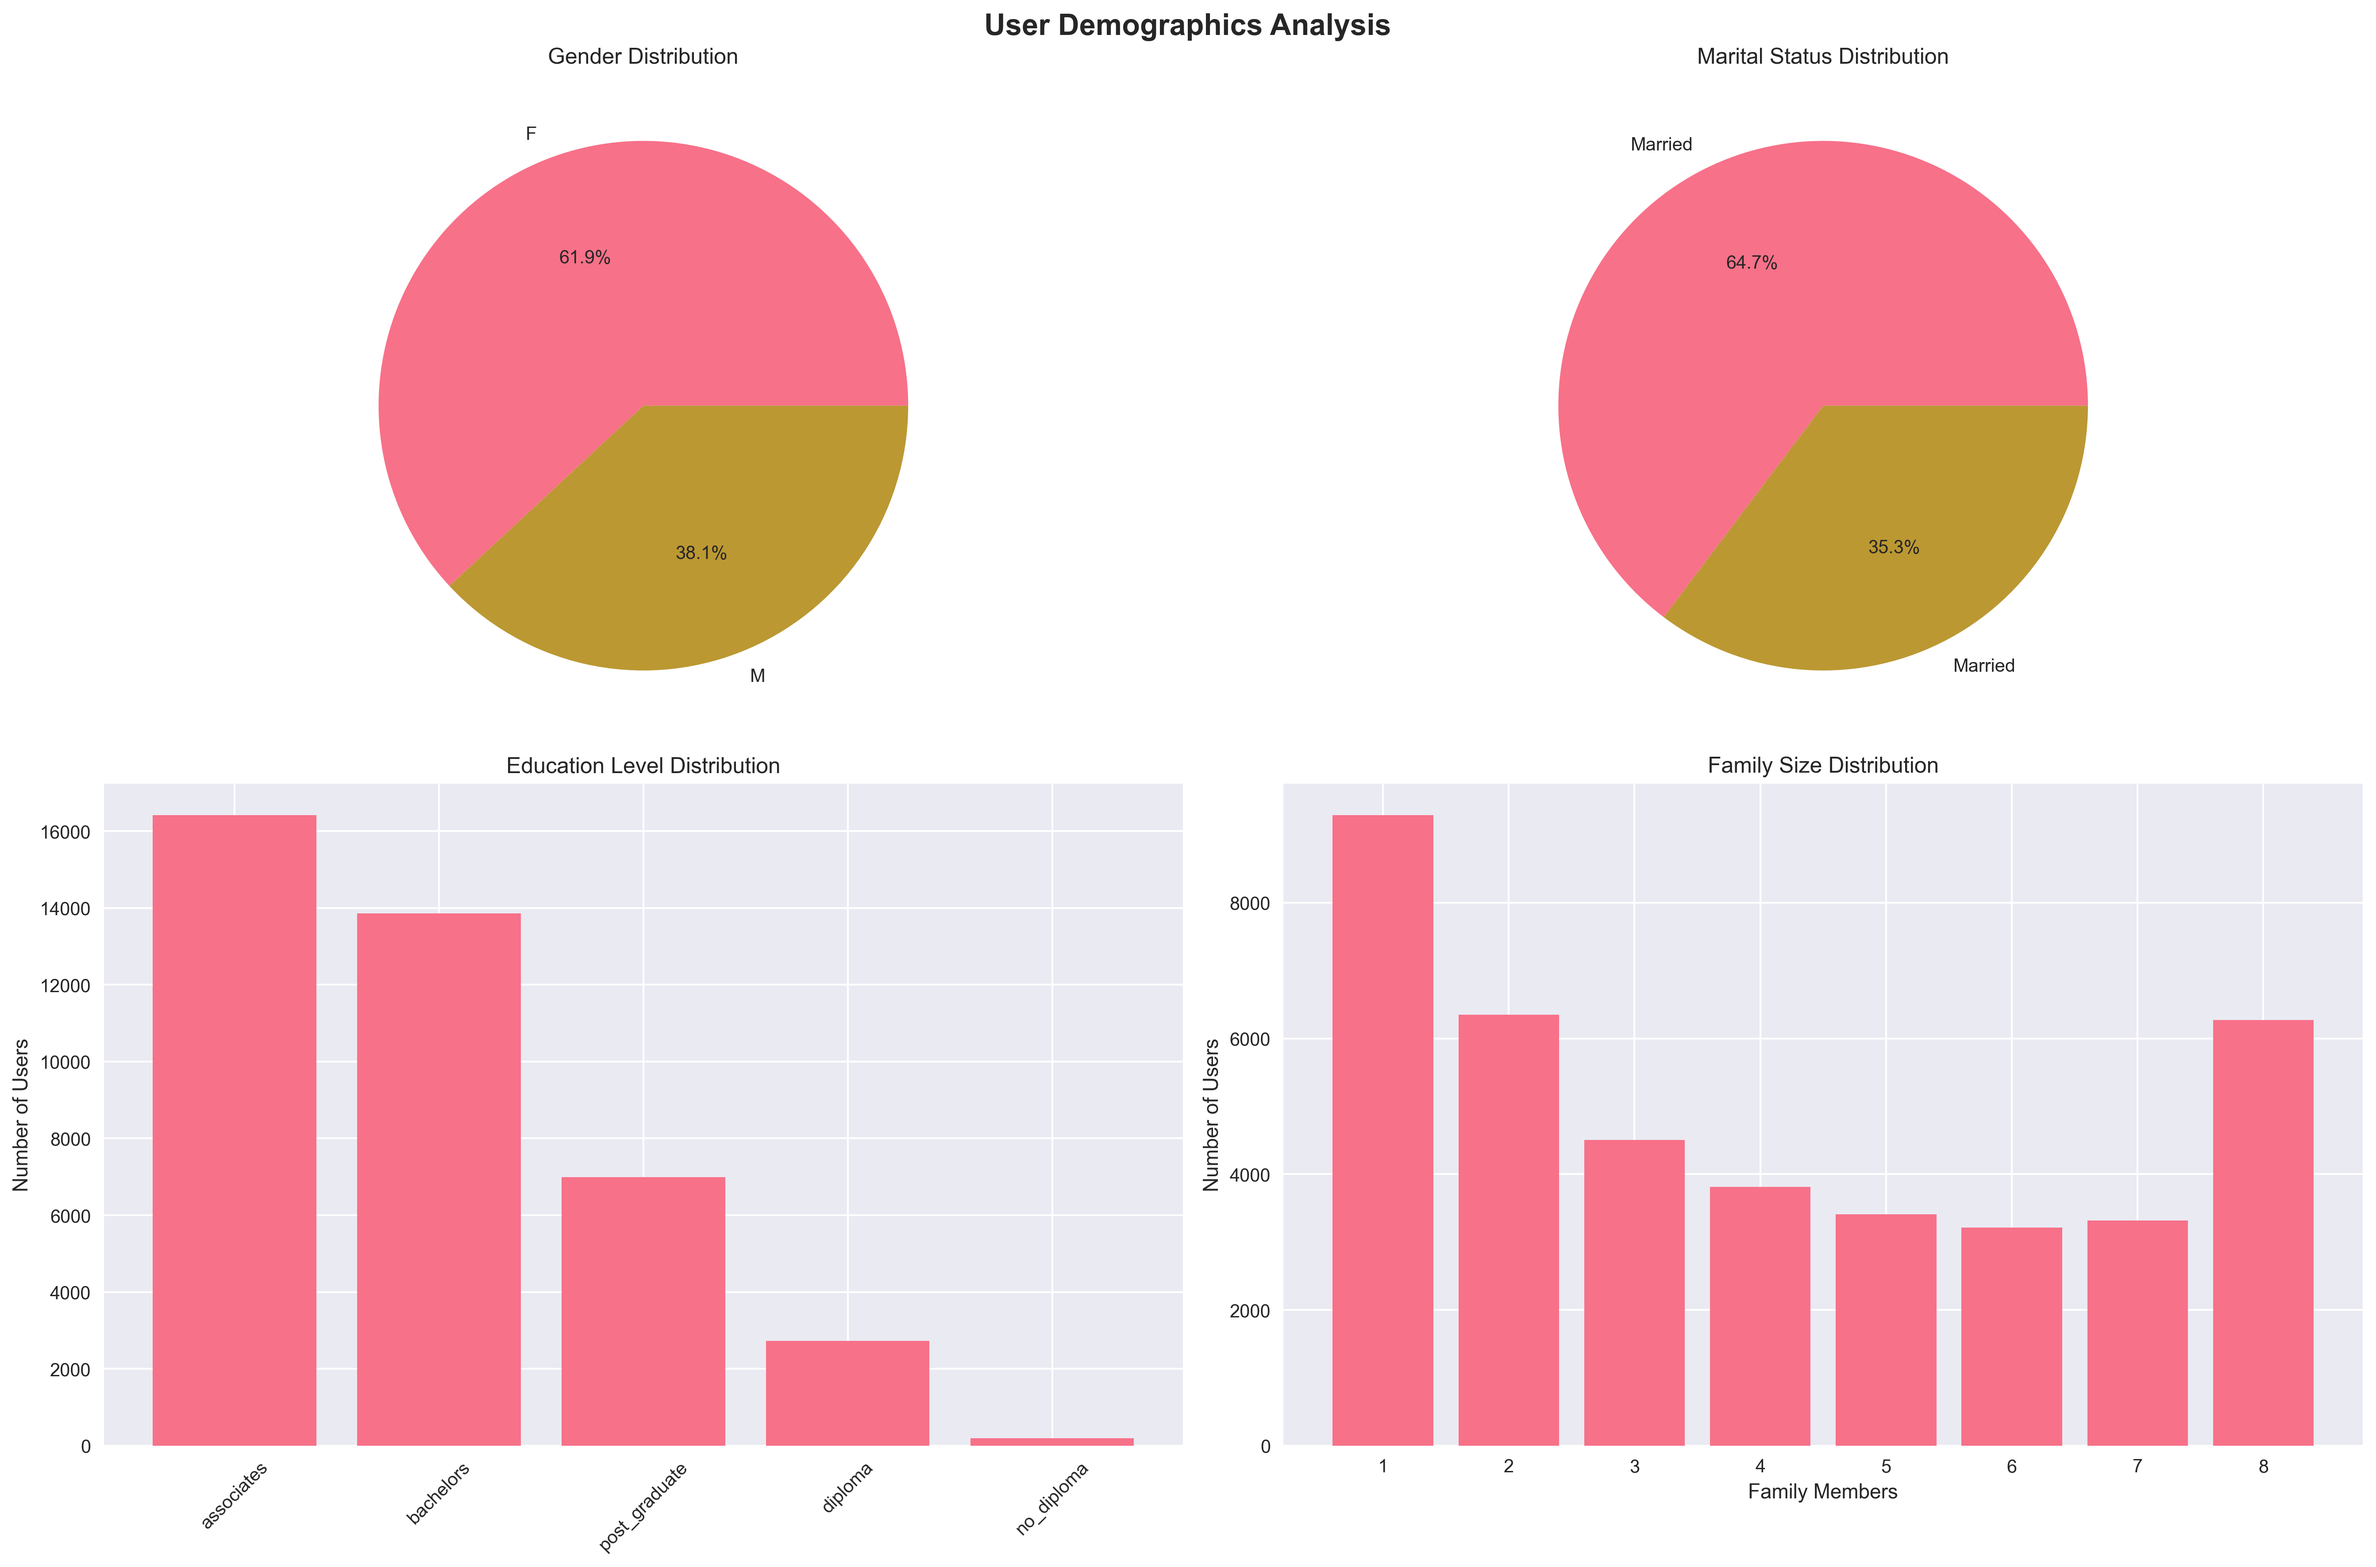
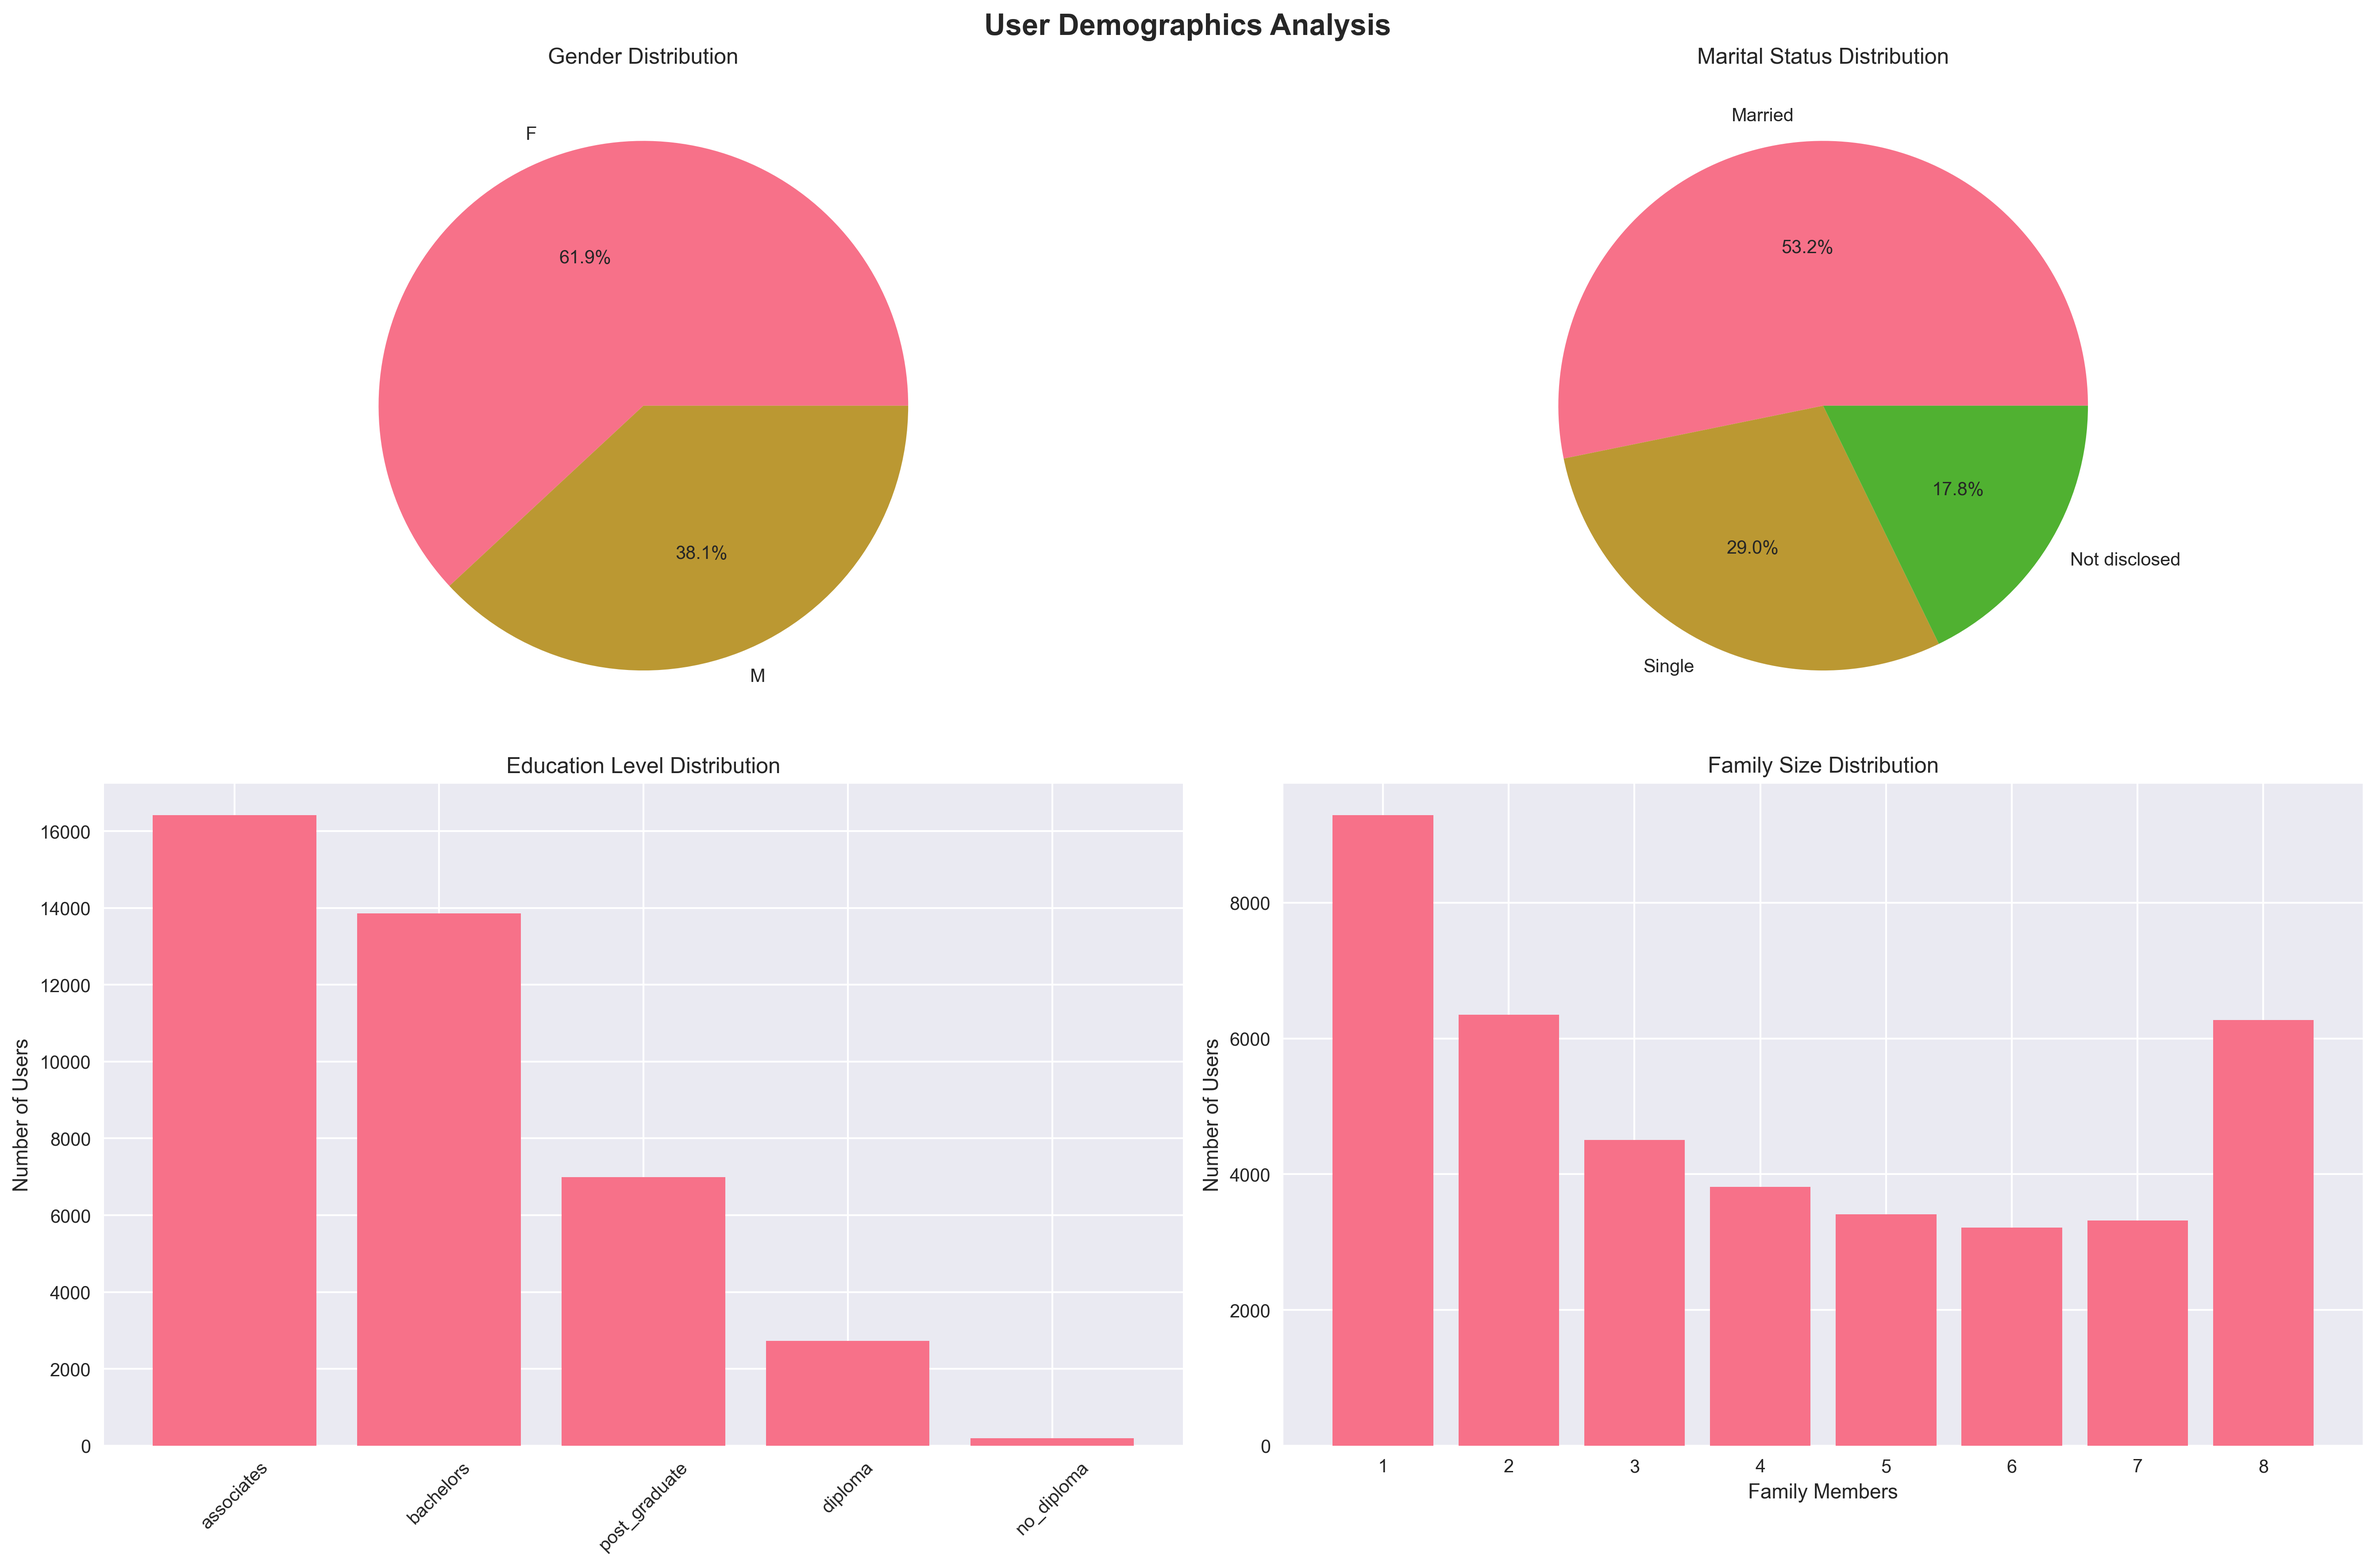
marital status corrected in graphs

Changed region(s): [[0.6532, 0.2485, 0.902, 0.4349]]

diff --git a/user_dashboard.html b/user_dashboard.html
@@ -278,11 +278,11 @@
             <h1>User Demographics & Behavior Analysis</h1>
             <p>Data-Driven Insights for Strategic Business Decisions</p>
             <p style="font-size: 1em; margin-top: 10px; opacity: 0.8;">Based on 40,177 Data Axle enriched user records</p>
-            <p style="font-size: 0.9em; margin-top: 6px; opacity: 0.85;">Source: PostgreSQL table <code>matched_emails</code> (email, response_json) | Generated February 04, 2026 at 09:55 PM</p>
+            <p style="font-size: 0.9em; margin-top: 6px; opacity: 0.85;">Source: PostgreSQL table <code>matched_emails</code> (email, response_json) | Generated February 04, 2026 at 10:33 PM</p>
         </header>
 
         <!-- <div class="timestamp">
-            📅 Dashboard generated on February 04, 2026 at 09:55 PM | Data is current as of latest analysis
+            📅 Dashboard generated on February 04, 2026 at 10:33 PM | Data is current as of latest analysis
         </div> -->
 
         <!-- <div class="stats-grid">
@@ -589,7 +589,7 @@
             <p><strong>User Demographics & Behavior Analysis Dashboard</strong></p>
             <p>Generated using Data Axle enriched customer data | Analysis covers 40,177 user records</p>
             <p style="margin-top: 10px; opacity: 0.8;">Interest scores based on purchases, memberships, subscriptions, and survey responses</p>
-            <p style="margin-top: 5px; opacity: 0.8;">Dashboard generated on February 04, 2026 at 09:55 PM</p>
+            <p style="margin-top: 5px; opacity: 0.8;">Dashboard generated on February 04, 2026 at 10:33 PM</p>
         </footer> -->
     </div>
 </body>

diff --git a/user_dashboard_16709243.html b/user_dashboard_16709243.html
@@ -278,11 +278,11 @@
             <h1>User Demographics & Behavior Analysis</h1>
             <p>Data-Driven Insights for Strategic Business Decisions</p>
             <p style="font-size: 1em; margin-top: 10px; opacity: 0.8;">Based on 10,000 Data Axle enriched user records</p>
-            <p style="font-size: 0.9em; margin-top: 6px; opacity: 0.85;">Source: PostgreSQL table <code>matched_emails</code> (email, response_json) | Generated February 04, 2026 at 09:55 PM</p>
+            <p style="font-size: 0.9em; margin-top: 6px; opacity: 0.85;">Source: PostgreSQL table <code>matched_emails</code> (email, response_json) | Generated February 04, 2026 at 10:33 PM</p>
         </header>
 
         <!-- <div class="timestamp">
-            📅 Dashboard generated on February 04, 2026 at 09:55 PM | Data is current as of latest analysis
+            📅 Dashboard generated on February 04, 2026 at 10:33 PM | Data is current as of latest analysis
         </div> -->
 
         <!-- <div class="stats-grid">
@@ -589,7 +589,7 @@
             <p><strong>User Demographics & Behavior Analysis Dashboard</strong></p>
             <p>Generated using Data Axle enriched customer data | Analysis covers 10,000 user records</p>
             <p style="margin-top: 10px; opacity: 0.8;">Interest scores based on purchases, memberships, subscriptions, and survey responses</p>
-            <p style="margin-top: 5px; opacity: 0.8;">Dashboard generated on February 04, 2026 at 09:55 PM</p>
+            <p style="margin-top: 5px; opacity: 0.8;">Dashboard generated on February 04, 2026 at 10:33 PM</p>
         </footer> -->
     </div>
 </body>

diff --git a/user_dashboard_24830246994.html b/user_dashboard_24830246994.html
@@ -278,11 +278,11 @@
             <h1>User Demographics & Behavior Analysis</h1>
             <p>Data-Driven Insights for Strategic Business Decisions</p>
             <p style="font-size: 1em; margin-top: 10px; opacity: 0.8;">Based on 10,000 Data Axle enriched user records</p>
-            <p style="font-size: 0.9em; margin-top: 6px; opacity: 0.85;">Source: PostgreSQL table <code>matched_emails</code> (email, response_json) | Generated February 04, 2026 at 09:55 PM</p>
+            <p style="font-size: 0.9em; margin-top: 6px; opacity: 0.85;">Source: PostgreSQL table <code>matched_emails</code> (email, response_json) | Generated February 04, 2026 at 10:33 PM</p>
         </header>
 
         <!-- <div class="timestamp">
-            📅 Dashboard generated on February 04, 2026 at 09:55 PM | Data is current as of latest analysis
+            📅 Dashboard generated on February 04, 2026 at 10:33 PM | Data is current as of latest analysis
         </div> -->
 
         <!-- <div class="stats-grid">
@@ -589,7 +589,7 @@
             <p><strong>User Demographics & Behavior Analysis Dashboard</strong></p>
             <p>Generated using Data Axle enriched customer data | Analysis covers 10,000 user records</p>
             <p style="margin-top: 10px; opacity: 0.8;">Interest scores based on purchases, memberships, subscriptions, and survey responses</p>
-            <p style="margin-top: 5px; opacity: 0.8;">Dashboard generated on February 04, 2026 at 09:55 PM</p>
+            <p style="margin-top: 5px; opacity: 0.8;">Dashboard generated on February 04, 2026 at 10:33 PM</p>
         </footer> -->
     </div>
 </body>

diff --git a/user_dashboard_63254397077.html b/user_dashboard_63254397077.html
@@ -278,11 +278,11 @@
             <h1>User Demographics & Behavior Analysis</h1>
             <p>Data-Driven Insights for Strategic Business Decisions</p>
             <p style="font-size: 1em; margin-top: 10px; opacity: 0.8;">Based on 10,000 Data Axle enriched user records</p>
-            <p style="font-size: 0.9em; margin-top: 6px; opacity: 0.85;">Source: PostgreSQL table <code>matched_emails</code> (email, response_json) | Generated February 04, 2026 at 09:55 PM</p>
+            <p style="font-size: 0.9em; margin-top: 6px; opacity: 0.85;">Source: PostgreSQL table <code>matched_emails</code> (email, response_json) | Generated February 04, 2026 at 10:33 PM</p>
         </header>
 
         <!-- <div class="timestamp">
-            📅 Dashboard generated on February 04, 2026 at 09:55 PM | Data is current as of latest analysis
+            📅 Dashboard generated on February 04, 2026 at 10:33 PM | Data is current as of latest analysis
         </div> -->
 
         <!-- <div class="stats-grid">
@@ -589,7 +589,7 @@
             <p><strong>User Demographics & Behavior Analysis Dashboard</strong></p>
             <p>Generated using Data Axle enriched customer data | Analysis covers 10,000 user records</p>
             <p style="margin-top: 10px; opacity: 0.8;">Interest scores based on purchases, memberships, subscriptions, and survey responses</p>
-            <p style="margin-top: 5px; opacity: 0.8;">Dashboard generated on February 04, 2026 at 09:55 PM</p>
+            <p style="margin-top: 5px; opacity: 0.8;">Dashboard generated on February 04, 2026 at 10:33 PM</p>
         </footer> -->
     </div>
 </body>

diff --git a/user_dashboard_68156719350.html b/user_dashboard_68156719350.html
@@ -278,11 +278,11 @@
             <h1>User Demographics & Behavior Analysis</h1>
             <p>Data-Driven Insights for Strategic Business Decisions</p>
             <p style="font-size: 1em; margin-top: 10px; opacity: 0.8;">Based on 10,000 Data Axle enriched user records</p>
-            <p style="font-size: 0.9em; margin-top: 6px; opacity: 0.85;">Source: PostgreSQL table <code>matched_emails</code> (email, response_json) | Generated February 04, 2026 at 09:55 PM</p>
+            <p style="font-size: 0.9em; margin-top: 6px; opacity: 0.85;">Source: PostgreSQL table <code>matched_emails</code> (email, response_json) | Generated February 04, 2026 at 10:33 PM</p>
         </header>
 
         <!-- <div class="timestamp">
-            📅 Dashboard generated on February 04, 2026 at 09:55 PM | Data is current as of latest analysis
+            📅 Dashboard generated on February 04, 2026 at 10:33 PM | Data is current as of latest analysis
         </div> -->
 
         <!-- <div class="stats-grid">
@@ -589,7 +589,7 @@
             <p><strong>User Demographics & Behavior Analysis Dashboard</strong></p>
             <p>Generated using Data Axle enriched customer data | Analysis covers 10,000 user records</p>
             <p style="margin-top: 10px; opacity: 0.8;">Interest scores based on purchases, memberships, subscriptions, and survey responses</p>
-            <p style="margin-top: 5px; opacity: 0.8;">Dashboard generated on February 04, 2026 at 09:55 PM</p>
+            <p style="margin-top: 5px; opacity: 0.8;">Dashboard generated on February 04, 2026 at 10:33 PM</p>
         </footer> -->
     </div>
 </body>

diff --git a/user_dashboard_smarty_swimoutlet_412.html b/user_dashboard_smarty_swimoutlet_412.html
@@ -278,11 +278,11 @@
             <h1>User Demographics & Behavior Analysis</h1>
             <p>Data-Driven Insights for Strategic Business Decisions</p>
             <p style="font-size: 1em; margin-top: 10px; opacity: 0.8;">Based on 177 Data Axle enriched user records</p>
-            <p style="font-size: 0.9em; margin-top: 6px; opacity: 0.85;">Source: PostgreSQL table <code>matched_emails</code> (email, response_json) | Generated February 04, 2026 at 09:55 PM</p>
+            <p style="font-size: 0.9em; margin-top: 6px; opacity: 0.85;">Source: PostgreSQL table <code>matched_emails</code> (email, response_json) | Generated February 04, 2026 at 10:33 PM</p>
         </header>
 
         <!-- <div class="timestamp">
-            📅 Dashboard generated on February 04, 2026 at 09:55 PM | Data is current as of latest analysis
+            📅 Dashboard generated on February 04, 2026 at 10:33 PM | Data is current as of latest analysis
         </div> -->
 
         <!-- <div class="stats-grid">
@@ -589,7 +589,7 @@
             <p><strong>User Demographics & Behavior Analysis Dashboard</strong></p>
             <p>Generated using Data Axle enriched customer data | Analysis covers 177 user records</p>
             <p style="margin-top: 10px; opacity: 0.8;">Interest scores based on purchases, memberships, subscriptions, and survey responses</p>
-            <p style="margin-top: 5px; opacity: 0.8;">Dashboard generated on February 04, 2026 at 09:55 PM</p>
+            <p style="margin-top: 5px; opacity: 0.8;">Dashboard generated on February 04, 2026 at 10:33 PM</p>
         </footer> -->
     </div>
 </body>

diff --git a/user_analysis_dashboard.py b/user_analysis_dashboard.py
@@ -173,11 +173,21 @@ def create_demographic_analysis(df, suffix=""):
         axes[0,0].pie(gender_counts.values, labels=gender_counts.index, autopct='%1.1f%%')
         axes[0,0].set_title('Gender Distribution')
     
-    # Marital status
+    # Marital status: DB has only 'married', 'single', or null
     if 'data.document.attributes.estimated_married' in df.columns:
-        married_counts = df['data.document.attributes.estimated_married'].value_counts()
-        axes[0,1].pie(married_counts.values, labels=['Married' if x else 'Single' for x in married_counts.index], 
-                     autopct='%1.1f%%')
+        def _married_label(x):
+            if pd.isna(x) or x is None or str(x).strip() == '':
+                return 'Not disclosed'
+            s = str(x).strip().lower()
+            if s == 'married':
+                return 'Married'
+            if s == 'single':
+                return 'Single'
+            return 'Not disclosed'
+        ser = df['data.document.attributes.estimated_married'].map(_married_label)
+        married_counts = ser.value_counts()
+        if len(married_counts) > 0:
+            axes[0,1].pie(married_counts.values, labels=married_counts.index.tolist(), autopct='%1.1f%%')
         axes[0,1].set_title('Marital Status Distribution')
     
     # Home ownership
